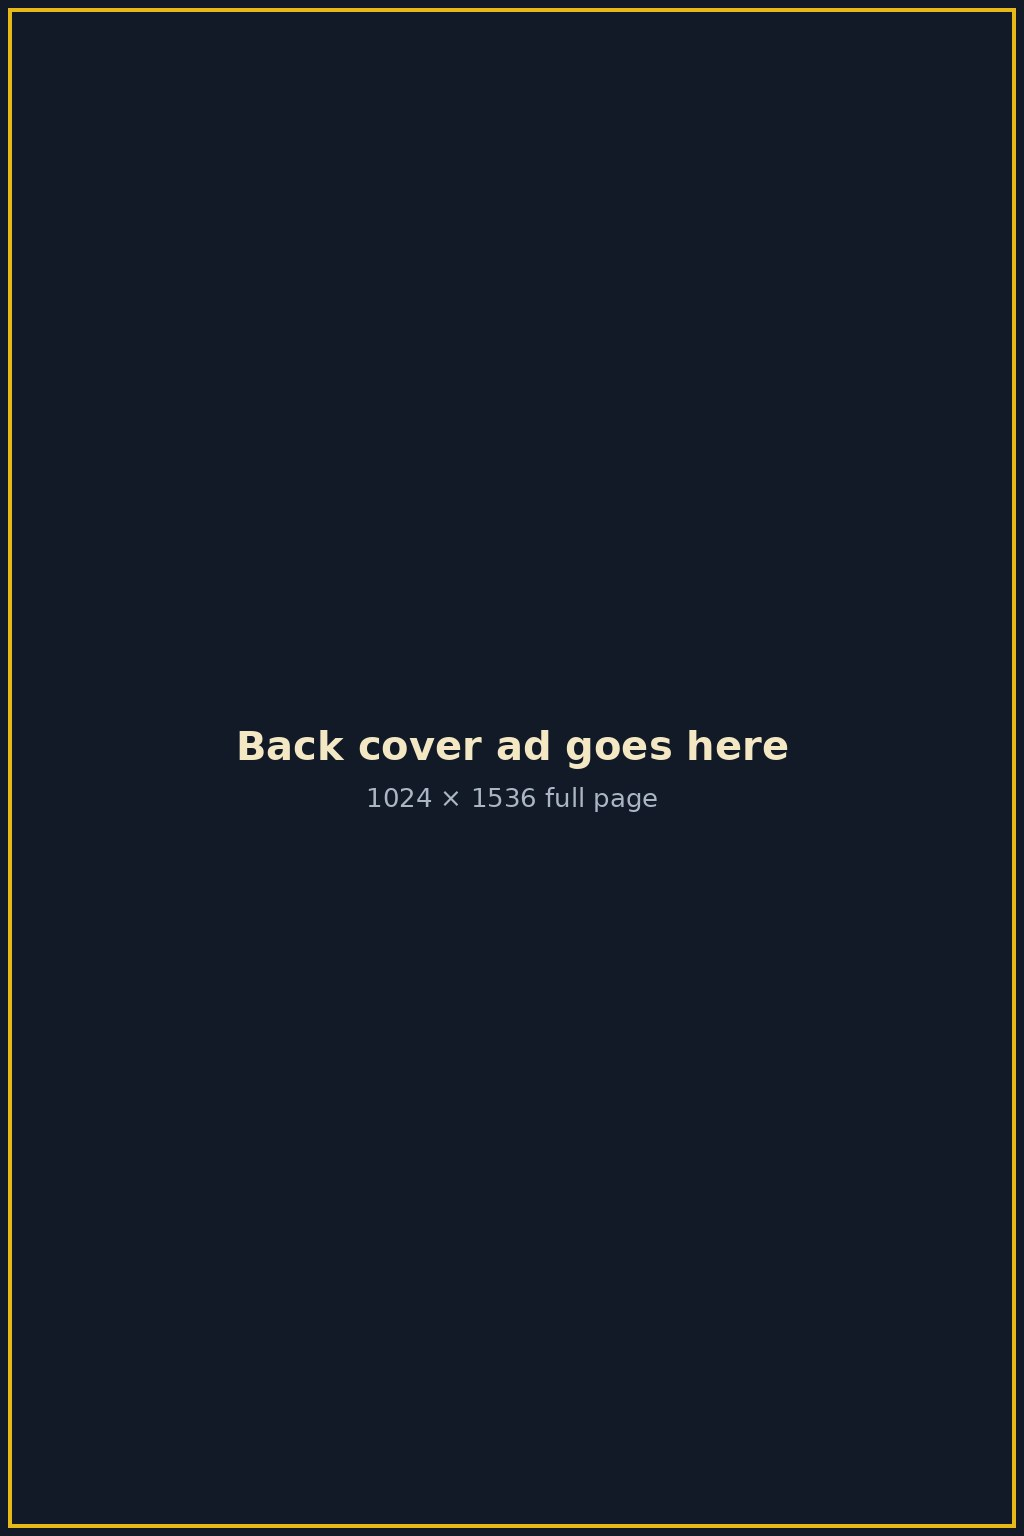
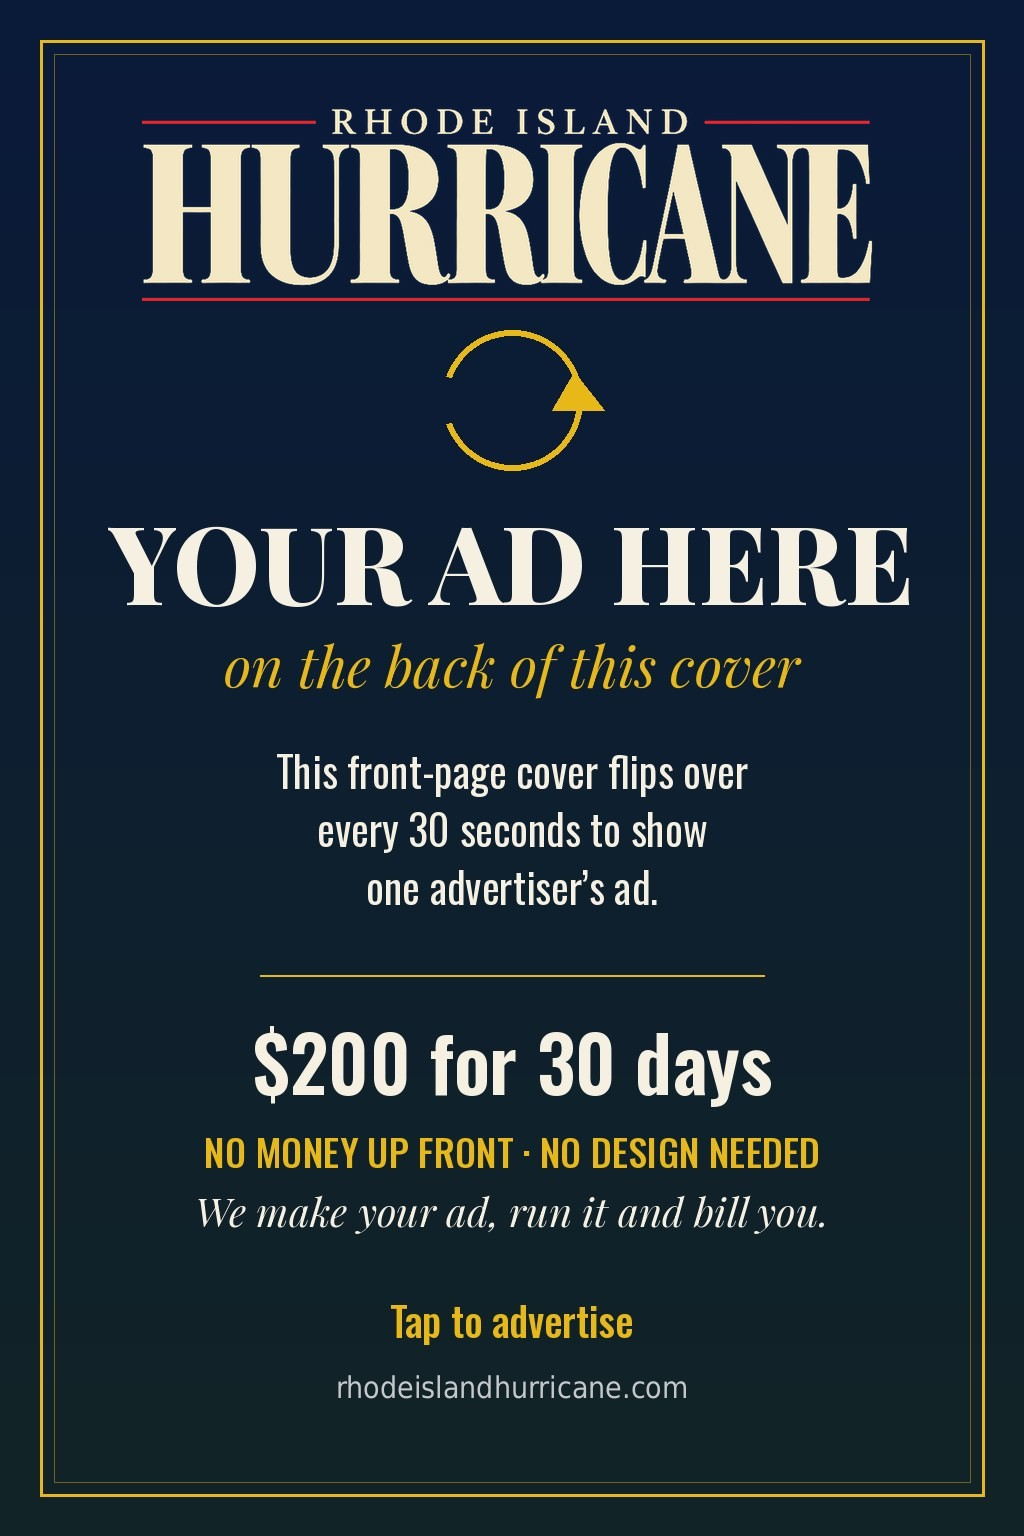
Hurricane: own back-cover ad for the flipping cover; crime off the front page like Jamestown
Claude-Session: https://claude.ai/code/session_01Rvhfw57S8LJQmjjH2L4ZDg

diff --git a/index.html b/index.html
@@ -1508,9 +1508,9 @@ function vGuide(compact){const cats=Object.keys(VSHORT).filter(c=>VENUES.some(v=
   return `<section class="box" style="--c:#ff6a00"><div class="vguide${compact?' vg-compact':''}"><div class="gh"><h3>The Report Venue Guide</h3><p>${VENUES.length} bars, clubs, stages, screens, lanes and taprooms from the North Shore to the South Shore. Who's open, who's closed, who's playing.</p></div>
   <div class="vtiles">${cats.map(c=>`<button class="vtile" data-vguide="${esc(c)}" style="--gc:${VCAT[c]}"><b>${VENUES.filter(v=>v.cat===c).length}</b><span>${esc(VSHORT[c])}</span><small>${esc(ex(c))}</small></button>`).join('')}</div>
   <div class="two" style="gap:10px;grid-template-columns:1fr"><button class="go" data-vguide="all">Browse all ${VENUES.length} venues →</button></div></div></section>`}
-function topPick(I){const CV=new Set(((I&&I.lines)||[]).map(l=>l[0]));return __tp0(CV)||window.HLTOP}function __tp0(CV){return STORIES.find(x=>!CV.has(x.slug)&&!(typeof FEATURES!=='undefined'&&FEATURES.has(x.slug)))}
+function topPick(I){const CV=new Set(((I&&I.lines)||[]).map(l=>l[0]));return __tp0(CV)||window.HLTOP}function __tp0(CV){return STORIES.find(x=>x.topic!=='crime'&&!CV.has(x.slug)&&!(typeof FEATURES!=='undefined'&&FEATURES.has(x.slug)))}
 function vCover(I){if(!I||!I.src)return '';const TP=topPick(I);
-  const CVS=new Set(I.lines.map(l=>l[0]));const loc=STORIES.filter(x=>!CVS.has(x.slug)&&!(typeof FEATURES!=='undefined'&&FEATURES.has(x.slug))&&!(TP&&x.slug===TP.slug)).slice(0,7);
+  const CVS=new Set(I.lines.map(l=>l[0]));const loc=STORIES.filter(x=>x.topic!=='crime'&&!CVS.has(x.slug)&&!(typeof FEATURES!=='undefined'&&FEATURES.has(x.slug))&&!(TP&&x.slug===TP.slug)).slice(0,7);
   return `<section class="box" style="--c:#ff6a00"><div class="cvr"><button class="cimg" data-zoom="${I.src}" aria-label="Open the ${esc(I.month)} cover full size"><img src="${I.src}" alt="Rhode Island Hurricane, ${esc(I.month)}"><span class="bcn" aria-hidden="true"></span><span class="blb" aria-hidden="true"><i style="left:40.92%;top:31.74%;animation-delay:-0.97s"></i><i style="left:40.72%;top:31.8%;animation-delay:-0.45s"></i><i style="left:34.13%;top:32.1%;animation-delay:-1.95s"></i><i style="left:44.14%;top:32.16%;animation-delay:-0.22s"></i><i style="left:44.34%;top:32.29%;animation-delay:-1.61s"></i><i style="left:44.14%;top:32.36%;animation-delay:-1.10s"></i><i style="left:38.48%;top:32.62%;animation-delay:-0.17s"></i><i style="left:38.48%;top:32.85%;animation-delay:-1.52s"></i><i style="left:36.23%;top:33.66%;animation-delay:-0.11s"></i><i style="left:46.04%;top:33.72%;animation-delay:-1.30s"></i><i style="left:29.15%;top:33.79%;animation-delay:-0.21s"></i><i style="left:33.84%;top:34.41%;animation-delay:-0.27s"></i><i style="left:34.03%;top:34.44%;animation-delay:-1.27s"></i><i style="left:26.76%;top:34.51%;animation-delay:-2.48s"></i><i style="left:31.54%;top:35.03%;animation-delay:-0.37s"></i><i style="left:48.1%;top:35.12%;animation-delay:-0.67s"></i><i style="left:24.17%;top:35.16%;animation-delay:-1.88s"></i><i style="left:24.02%;top:35.29%;animation-delay:-2.84s"></i><i style="left:24.37%;top:35.32%;animation-delay:-1.73s"></i><i style="left:28.96%;top:35.87%;animation-delay:-1.19s"></i><i style="left:21.68%;top:35.87%;animation-delay:-2.93s"></i><i style="left:28.71%;top:35.9%;animation-delay:-0.14s"></i><i style="left:21.92%;top:35.94%;animation-delay:-2.58s"></i><i style="left:19.38%;top:36.3%;animation-delay:-0.87s"></i><i style="left:19.48%;top:36.46%;animation-delay:-0.43s"></i><i style="left:50.1%;top:36.52%;animation-delay:-0.35s"></i><i style="left:26.22%;top:36.43%;animation-delay:-0.93s"></i><i style="left:43.9%;top:36.43%;animation-delay:-2.45s"></i><i style="left:50.34%;top:36.49%;animation-delay:-0.54s"></i><i style="left:26.27%;top:36.59%;animation-delay:-1.74s"></i><i style="left:43.9%;top:36.62%;animation-delay:-1.92s"></i><i style="left:16.8%;top:36.95%;animation-delay:-1.12s"></i><i style="left:23.49%;top:37.01%;animation-delay:-1.64s"></i><i style="left:23.54%;top:37.21%;animation-delay:-0.19s"></i><i style="left:14.16%;top:37.47%;animation-delay:-0.18s"></i><i style="left:45.9%;top:37.79%;animation-delay:-0.62s"></i><i style="left:52.05%;top:37.76%;animation-delay:-2.04s"></i><i style="left:11.52%;top:37.86%;animation-delay:-1.28s"></i><i style="left:20.8%;top:37.79%;animation-delay:-0.94s"></i><i style="left:52.15%;top:37.89%;animation-delay:-1.76s"></i><i style="left:17.97%;top:37.96%;animation-delay:-1.36s"></i><i style="left:17.77%;top:38.15%;animation-delay:-0.90s"></i><i style="left:8.84%;top:38.15%;animation-delay:-2.38s"></i><i style="left:18.21%;top:38.18%;animation-delay:-2.10s"></i><i style="left:8.89%;top:38.28%;animation-delay:-0.73s"></i><i style="left:5.76%;top:38.48%;animation-delay:-1.72s"></i><i style="left:15.19%;top:38.51%;animation-delay:-1.58s"></i><i style="left:2.73%;top:38.77%;animation-delay:-2.63s"></i><i style="left:5.22%;top:38.67%;animation-delay:-2.19s"></i><i style="left:12.21%;top:38.8%;animation-delay:-0.86s"></i><i style="left:2.93%;top:38.83%;animation-delay:-2.94s"></i><i style="left:12.7%;top:38.8%;animation-delay:-0.35s"></i><i style="left:9.62%;top:39.03%;animation-delay:-1.25s"></i><i style="left:54.0%;top:38.96%;animation-delay:-2.27s"></i><i style="left:47.8%;top:39.0%;animation-delay:-0.46s"></i><i style="left:6.59%;top:39.19%;animation-delay:-1.47s"></i><i style="left:3.61%;top:39.39%;animation-delay:-0.12s"></i><i style="left:11.13%;top:40.01%;animation-delay:-2.00s"></i><i style="left:49.76%;top:40.17%;animation-delay:-2.29s"></i><i style="left:55.91%;top:40.1%;animation-delay:-1.72s"></i><i style="left:55.91%;top:40.27%;animation-delay:-2.63s"></i><i style="left:0.15%;top:40.4%;animation-delay:-0.94s"></i><i style="left:0.49%;top:40.46%;animation-delay:-2.09s"></i><i style="left:1.56%;top:40.56%;animation-delay:-1.78s"></i><i style="left:3.27%;top:40.72%;animation-delay:-1.74s"></i><i style="left:3.86%;top:40.76%;animation-delay:-1.37s"></i><i style="left:4.49%;top:40.85%;animation-delay:-2.52s"></i><i style="left:5.71%;top:40.98%;animation-delay:-2.83s"></i><i style="left:57.76%;top:41.18%;animation-delay:-1.42s"></i><i style="left:3.22%;top:41.18%;animation-delay:-1.99s"></i><i style="left:51.76%;top:41.28%;animation-delay:-0.18s"></i><i style="left:9.28%;top:41.34%;animation-delay:-2.10s"></i><i style="left:9.81%;top:41.34%;animation-delay:-1.94s"></i><i style="left:10.35%;top:41.41%;animation-delay:-2.98s"></i><i style="left:10.89%;top:41.5%;animation-delay:-2.47s"></i><i style="left:11.77%;top:41.6%;animation-delay:-0.85s"></i><i style="left:10.94%;top:41.93%;animation-delay:-1.16s"></i><i style="left:32.37%;top:41.96%;animation-delay:-2.01s"></i><i style="left:11.18%;top:42.12%;animation-delay:-0.07s"></i><i style="left:32.67%;top:42.22%;animation-delay:-1.39s"></i><i style="left:59.72%;top:42.22%;animation-delay:-0.50s"></i><i style="left:13.48%;top:42.19%;animation-delay:-0.35s"></i><i style="left:32.03%;top:42.29%;animation-delay:-0.18s"></i><i style="left:53.76%;top:42.19%;animation-delay:-2.30s"></i><i style="left:53.56%;top:42.35%;animation-delay:-0.39s"></i><i style="left:53.96%;top:42.35%;animation-delay:-0.74s"></i><i style="left:11.18%;top:42.45%;animation-delay:-1.17s"></i><i style="left:21.19%;top:42.51%;animation-delay:-2.61s"></i><i style="left:22.66%;top:42.64%;animation-delay:-0.24s"></i><i style="left:40.43%;top:43.16%;animation-delay:-1.35s"></i><i style="left:61.47%;top:43.03%;animation-delay:-1.65s"></i><i style="left:23.34%;top:43.16%;animation-delay:-2.65s"></i><i style="left:55.62%;top:43.23%;animation-delay:-2.46s"></i><i style="left:61.47%;top:43.23%;animation-delay:-2.59s"></i><i style="left:33.69%;top:43.75%;animation-delay:-0.84s"></i><i style="left:41.8%;top:44.24%;animation-delay:-1.25s"></i><i style="left:57.32%;top:44.08%;animation-delay:-1.08s"></i><i style="left:48.93%;top:44.08%;animation-delay:-2.65s"></i><i style="left:63.23%;top:44.14%;animation-delay:-2.87s"></i><i style="left:63.48%;top:44.21%;animation-delay:-0.45s"></i><i style="left:59.08%;top:44.79%;animation-delay:-0.53s"></i><i style="left:60.94%;top:45.57%;animation-delay:-0.70s"></i><i style="left:66.41%;top:45.48%;animation-delay:-0.70s"></i></span></button>
   ${TP?`<button type="button" class="spr sea-spr cvbrk brk${TP.theme?' th-'+TP.theme:''}" data-story="${TP.slug}"><span class="spr-tag">${TP.breaking?'BREAKING NEWS · RHODE ISLAND':'RHODE ISLAND · TOP STORY'}</span><span class="cvbrk-t"><b>${esc(TP.title)}</b><small>${esc(TP.dek)}</small></span><span class="spr-go">Read it →</span></button>`:''}
   <div class="cvside">${loc.length?`<div class="sea-h"><b>Rhode Island News</b><button data-go="stories">All Rhode Island stories →</button></div>`:''}
@@ -2196,7 +2196,7 @@ let CWX=[{tag:"CRIME WATCH",big:"Who's<em>out there tonight</em>",name:"Crime Wa
 let ST=[];try{const bySlug={};STORIES.forEach(x=>bySlug[x.slug]=x);
   const lines=(typeof ISSUES!=='undefined'&&ISSUES[0]&&ISSUES[0].lines)||[];
   ST=['clavicular-business-of-contempt','nancy-mace-gets-inked','satanic-cabal','the-mushroom-map','we-turned-our-lights-off'].map(k=>bySlug[k]).concat(lines.map(l=>bySlug[l[0]])).filter((x,i,arr)=>x&&arr.findIndex(y=>y&&y.slug===x.slug)===i);const seen=new Set(ST.map(x=>x.slug));STORIES.forEach(x=>{if(!seen.has(x.slug))ST.push(x)})}catch(e){ST=STORIES.slice()}
-ST=ST.filter(x=>x.slug!=='skin-deep-lazonga');
+ST=ST.filter(x=>x.slug!=='skin-deep-lazonga'&&x.topic!=='crime');
 let SC=[];try{SC=(typeof upScene!=='undefined'&&upScene.length?upScene:SCENE).slice(0,40)}catch(e){}
 const SCF=SC.map(e=>({tag:"THE SCENE · "+e.kind,bigText:e.title,name:e.venue+(e.hood?' · '+e.hood:''),when:(typeof shortDay==='function'?shortDay(e.date):e.date)+(e.end&&e.end!==e.date&&typeof shortDay==='function'?' – '+shortDay(e.end):'')+(e.price?' · '+e.price:''),sub:e.blurb,go:"Details",theme:"sc",href:e.url,ext:1,k:(typeof KIND!=='undefined'&&KIND[e.kind])||'#b45cff'}));
 let MU=[];try{const BIG=/climate pledge|lumen|t-mobile|paramount|moore|showbox|neptune|wamu|benaroya|mccaw|5th avenue|gorge|marymoore|tacoma dome|crocodile|neumos|jazz alley|chateau ste|white river|accesso|husky/i;const all=(typeof up!=='undefined'?up:[]);let src=all.filter(e=>BIG.test(e.venue||''));if(src.length<8)src=all;src=src.slice(0,120);const by={};src.forEach(e=>{(by[e.genre]=by[e.genre]||[]).push(e)});
@@ -2452,7 +2452,7 @@ document.readyState==="loading"?document.addEventListener("DOMContentLoaded",()=
 const H=/^(the wire · nightlife|the wire|shows this week|tech & ai wire|scene picks|band watch|venue desk)/i;
 const go=()=>{document.querySelectorAll('#view section.box').forEach(s=>{const b=s.querySelector('.bh b');const g=s.querySelector('.vguide');if((b&&H.test(b.textContent.trim()))||g)s.style.display='none'});document.querySelectorAll('#view .front').forEach(f=>{const st=f.querySelector(':scope>.stack');if(st&&![...st.children].some(c=>c.offsetHeight>0)){st.style.display='none';f.style.gridTemplateColumns='minmax(0,1fr)'}})};
 const V=()=>document.getElementById('view');const st=()=>{const v=V();if(!v)return setTimeout(st,200);go();new MutationObserver(go).observe(v,{childList:true,subtree:true})};
-document.readyState==='loading'?document.addEventListener('DOMContentLoaded',st):st()})();</script><script id="backCover">(()=>{const BK='img/back-cover-ad.jpg?v=4';new Image().src=BK;
+document.readyState==='loading'?document.addEventListener('DOMContentLoaded',st):st()})();</script><script id="backCover">(()=>{const BK='img/back-cover-ad.jpg?v=5';new Image().src=BK;
 const st=document.createElement('style');st.textContent='.cvr .cimg .cback{position:absolute;inset:0;display:none;z-index:6;cursor:pointer;background:#0b1a38}.cvr .cimg .cback img{display:block;width:100%;height:100%;object-fit:cover;animation:none!important;transform:none!important}.cvr .cimg.back .cback{display:block}';document.head.appendChild(st);
 const vidOn=()=>{const v=document.getElementById('irBox');return v&&getComputedStyle(v).display!=='none'&&getComputedStyle(v).opacity!=='0'};
 let busy=false;
@@ -2781,7 +2781,7 @@ col.querySelector('.dx').addEventListener('click',close);
 addEventListener('keydown',e=>{if(e.key==='Escape')close()});
 })();</script>
 <script id="copJs">(()=>{const VRX=/\b(murder|homicide|killed|killing|stabb|shooting|gunfire|gunman|assault|strangl|manslaughter)/i,SKIP=['1985-cold-case-arrest'];
-const slugs=()=>{const S=['jamestown-1985-cold-case-murder-charge'];try{const n=Date.now();STORIES.forEach(x=>{if(!SKIP.includes(x.slug)&&!S.includes(x.slug)&&VRX.test(x.title+' '+(x.dek||''))&&n-Date.parse(x.date)<14*864e5)S.push(x.slug)})}catch(e){}return S};
+const slugs=()=>{return [];const S=[];try{const n=Date.now();STORIES.forEach(x=>{if(!SKIP.includes(x.slug)&&!S.includes(x.slug)&&VRX.test(x.title+' '+(x.dek||''))&&n-Date.parse(x.date)<14*864e5)S.push(x.slug)})}catch(e){}return S};
 const deco=()=>{const want=new Set();slugs().forEach(k=>{const el=[...document.querySelectorAll(`button[data-story="${k}"]`)].find(e=>!e.closest('article,.reader')&&!e.classList.contains('spr')&&e.offsetParent);if(el)want.add(el)});
 document.querySelectorAll('.cop').forEach(el=>{if(!want.has(el))el.classList.remove('cop')});want.forEach(el=>el.classList.add('cop'))};
 new MutationObserver(()=>{clearTimeout(window.__cp);window.__cp=setTimeout(deco,80)}).observe(document.documentElement,{childList:true,subtree:true});deco()})();</script></body>
